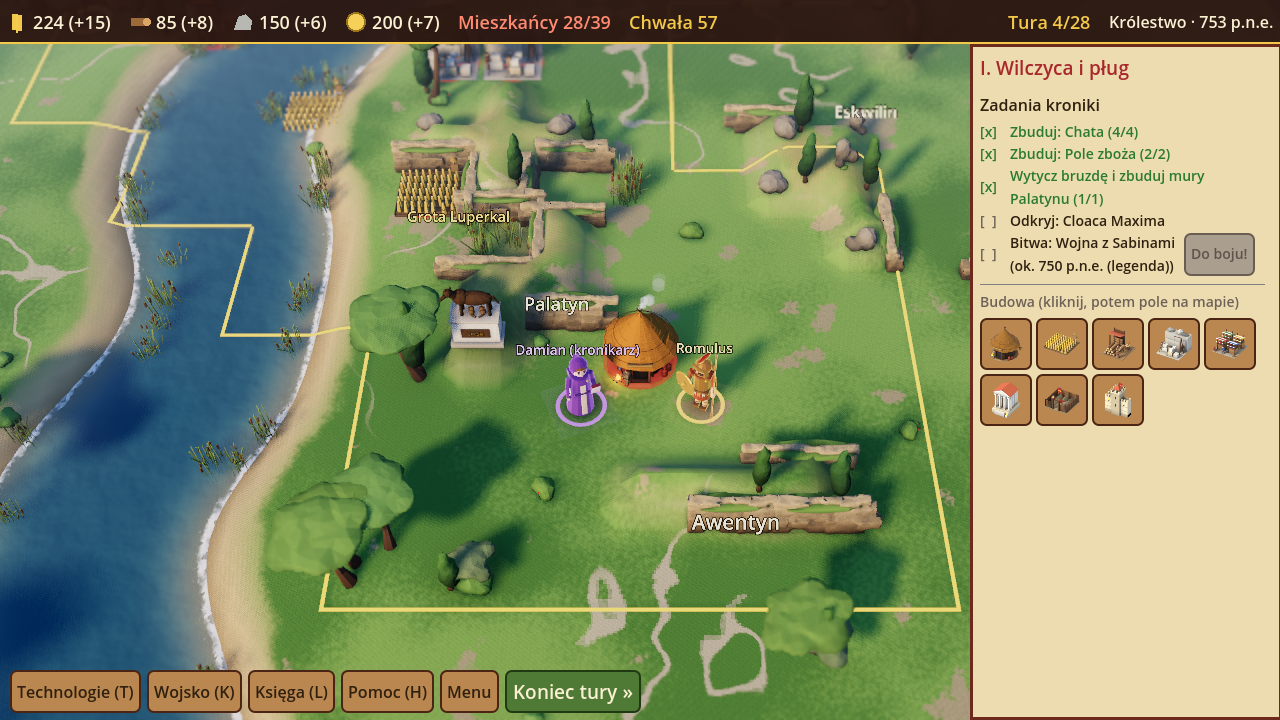
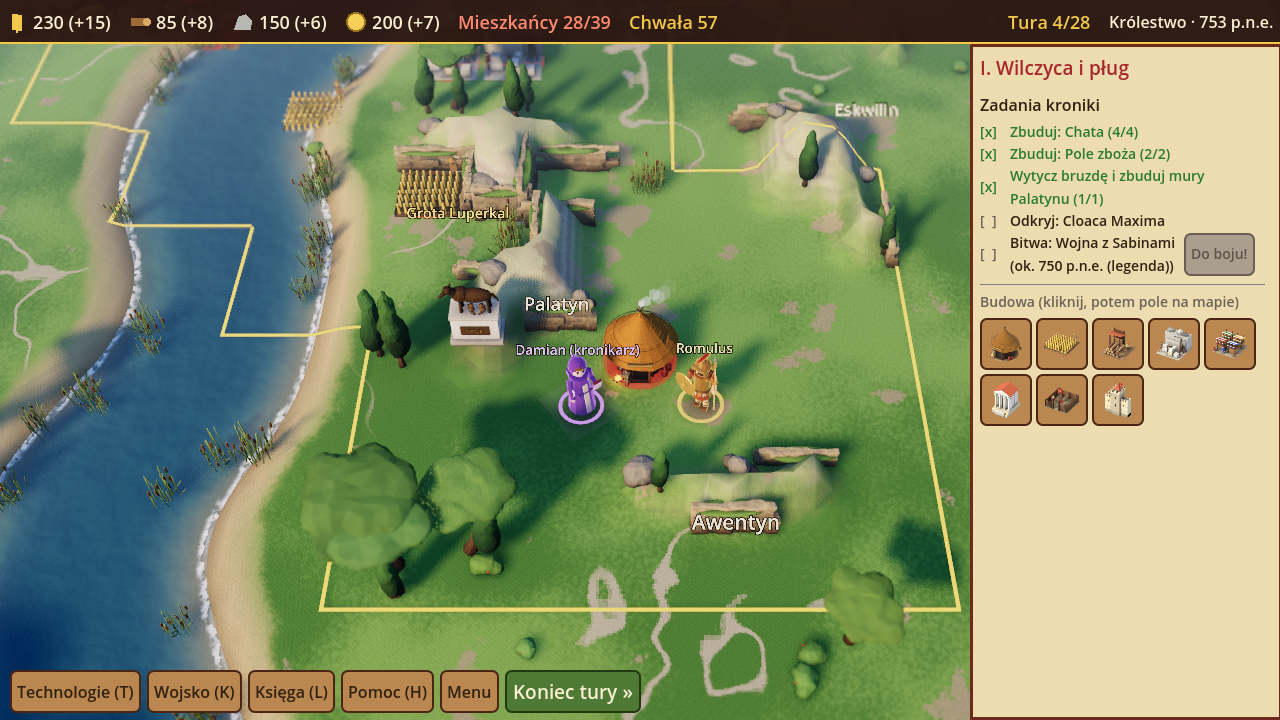
Roman Empire 3D: wzgórza ze skośnymi stokami zamiast płaskich płyt
- każde wzgórze własnej wysokości (większe wyższe), zaokrąglone szczyty
  i falująca wierzchowina zamiast płaskiej płyty
- ta sama tekstura trawy co reszta mapy; na szczytach suchsza, płowa,
  z większą ilością gołej ziemi (shader wg wysokości)
- urwiska w kilku miejscach, dopasowane do wysokości stoku (niskie pomijane)
- zrzut 23_wzgorza z niskiej perspektywy

Claude-Session: https://claude.ai/code/session_01HT9RCQ9Ckd1riJVCiqzjVo

diff --git a/rzym3d/README.md b/rzym3d/README.md
@@ -96,10 +96,13 @@ osobne węzły z modeli Blendera o nazwach `anim_obrot_*`, `anim_kolys_*`, `anim
 
 ## Modele i teren (Blender)
 
-- **Wzgórza jako rzeźba terenu**: Palatyn, Awentyn, Eskwilin i pozostałe wzgórza to heightmapa – łagodne trawiaste stoki
-  opadające w obrębie pola (`wys_punkt()` w `gra.gd`). Część krawędzi (zawsze nad wodą, poza tym losowo) przechodzi
-  w strome urwisko z modularnych kafli skalnych `klif_0..3` (kanciaste ławice tufu i trawertynu z trawą na koronie);
-  shader terenu maluje strome zbocza warstwami skały, a łagodne stoki – prześwitującą ziemią.
+- **Wzgórza jako rzeźba terenu**: Palatyn, Awentyn, Eskwilin i pozostałe wzgórza to skośne, trawiaste stoki
+  (heightmapa `wys_punkt()` w `gra.gd`) o zaokrąglonych szczytach. Każde wzgórze ma własną wysokość (większe są wyższe)
+  i falującą wierzchowinę. Pokrywa je ta sama tekstura terenu co resztę mapy, tylko na szczytach trawa jest suchsza,
+  płowa i z większą ilością gołej ziemi. W kilku miejscach (zawsze nad wodą, poza tym na ok. 1/5 krawędzi) stok
+  przechodzi w skalne urwisko z modułów `klif_0..3` dopasowanych do wysokości stoku.
+
+![Wzgórza Rzymu](zrzuty/23_wzgorza.png)
 - **Fazowane krawędzie i wypalony AO**: budynki, zabytki i obozy mają bevel (krawędzie łapią światło), a kolor
   z ambient occlusion jest wypalony do tekstury (Cycles, Smart UV). Drzewa, krzewy, skały i trzciny mają AO
   wypalony w kolorach wierzchołków.
